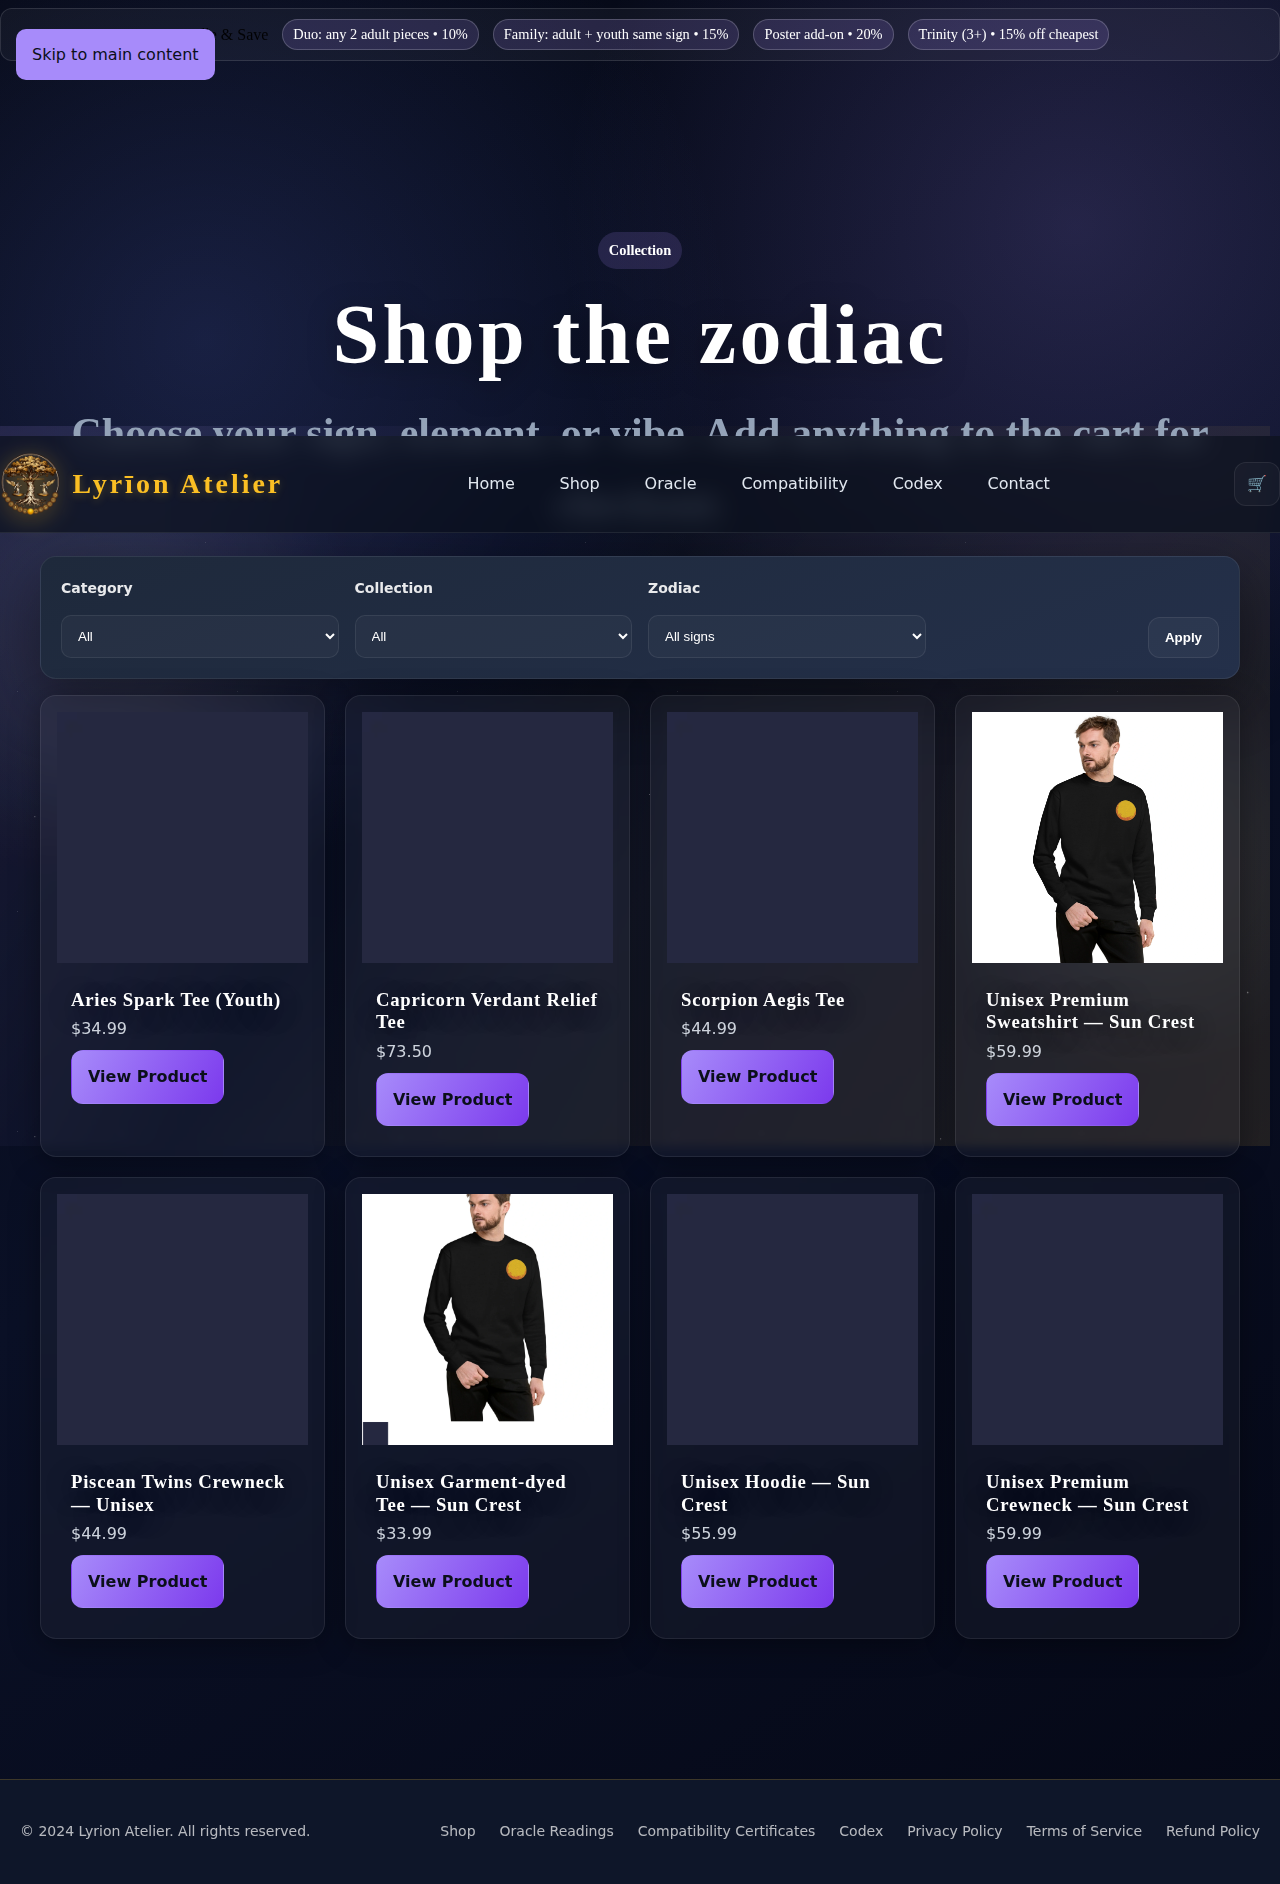
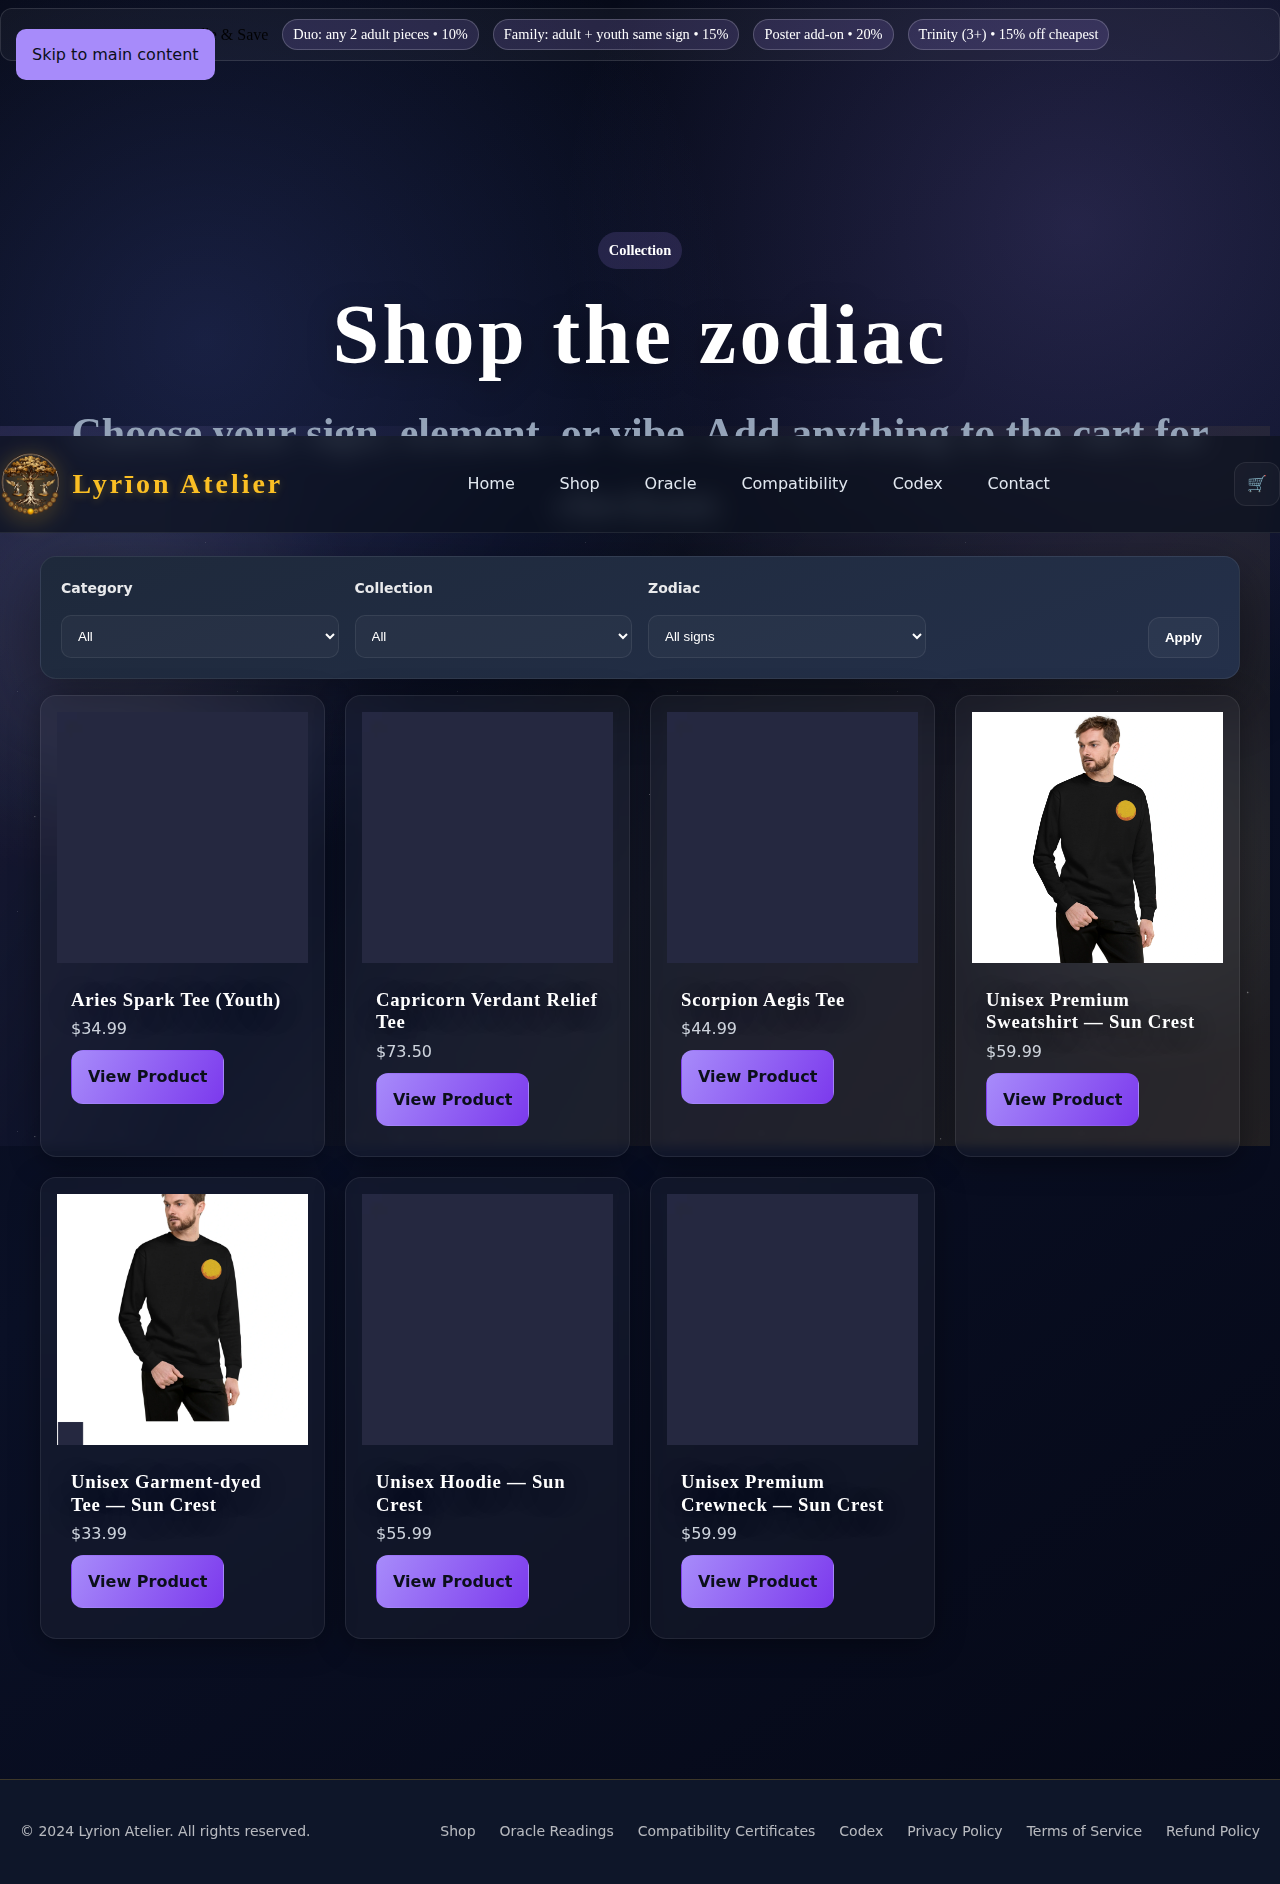
remove duplicate piscean entry

diff --git a/tests/shop.spec.ts b/tests/shop.spec.ts
@@ -141,6 +141,7 @@ test.describe('shop smoke test', () => {
     }
 
     await expect(page.locator('[data-slug="piscean-twins-crewneck"]')).toHaveCount(0);
+    await expect(page.locator('[data-slug="piscean-crewneck"]')).toHaveCount(0);
 
     const scorpionPrice = page.locator('[data-slug="scorpion-aegis-tee"] .product-card__price');
     await expect(scorpionPrice).toHaveText(/\$44\.99/);
